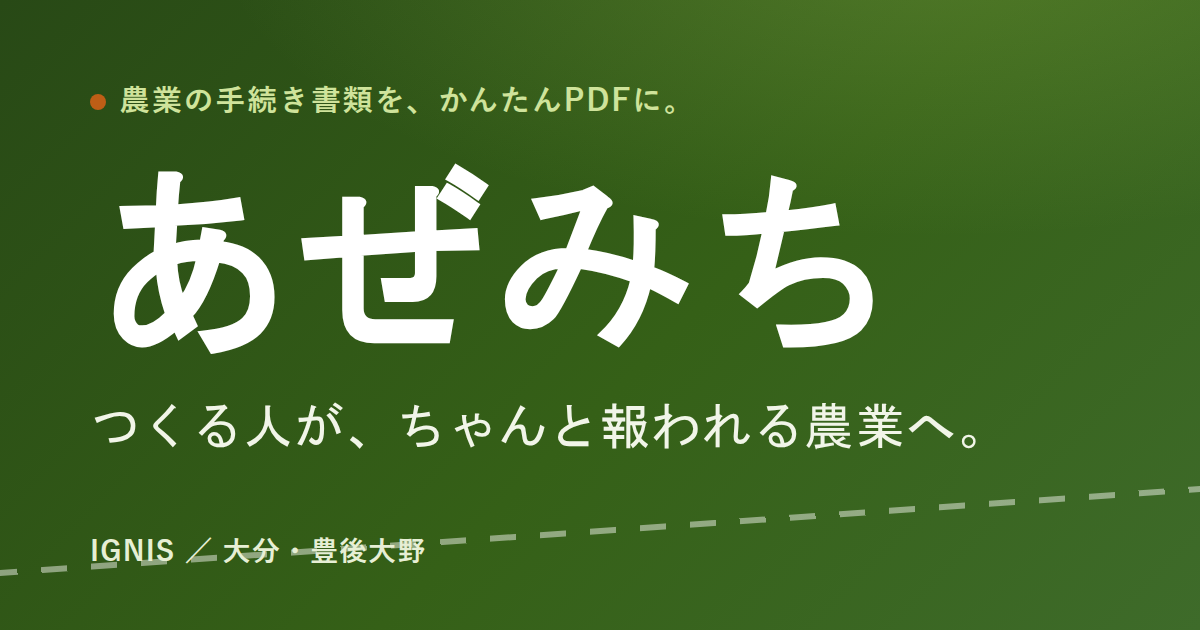
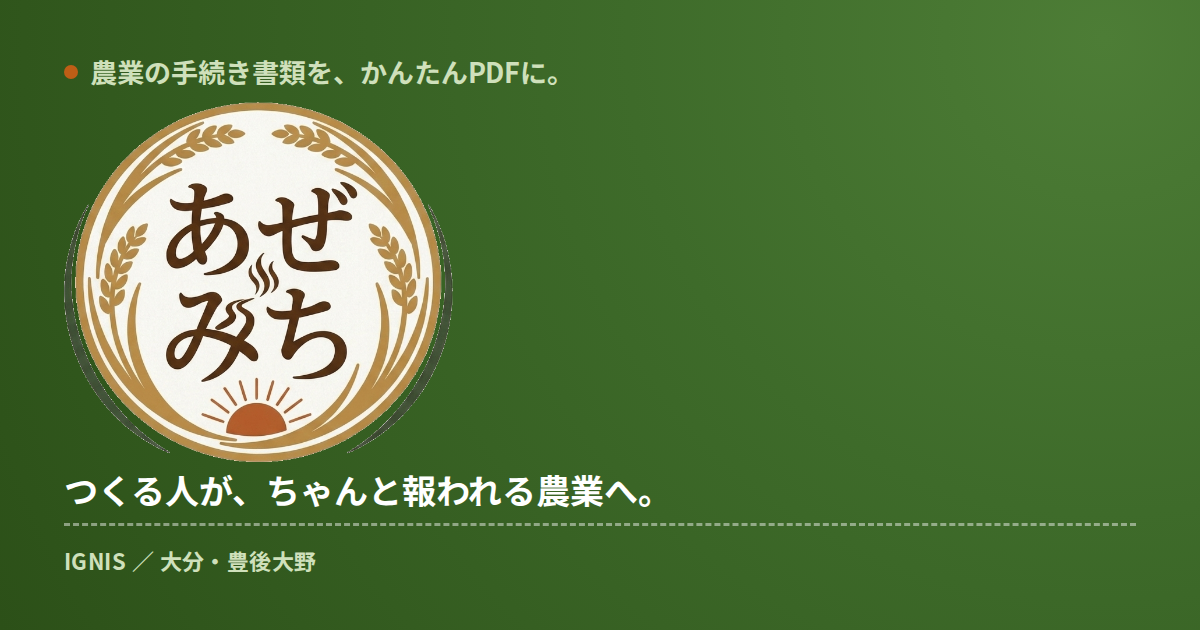
新しいロゴをファビコン・OGP画像・ヘッダー・フッターに反映

diff --git a/src/app/tool/page.tsx b/src/app/tool/page.tsx
@@ -1,5 +1,6 @@
 "use client";
 
+import Image from "next/image";
 import Link from "next/link";
 import { CHOKKURA_NOTIFY_URL } from "../site";
 
@@ -8,6 +9,14 @@ export default function Home() {
     <div className="min-h-screen bg-green-50">
       {/* あぜみち サービス紹介 */}
       <div className="bg-white border-b-2 border-green-100 px-4 py-8 text-center">
+        <Image
+          src="/azemichi-logo.png"
+          alt="あぜみち"
+          width={668}
+          height={618}
+          className="mx-auto mb-2 h-24 w-auto sm:h-28"
+          priority
+        />
         <h2 className="text-4xl font-bold text-green-800 mb-2">あぜみち</h2>
         <p className="text-lg font-bold text-green-700 mb-3">農家の手続きを、もっと簡単に。</p>
         <p className="text-xl font-medium text-gray-700 mb-4">農業の手続き書類を、スマホで簡単に作れます</p>

diff --git a/src/app/components/SiteFooter.tsx b/src/app/components/SiteFooter.tsx
@@ -1,3 +1,4 @@
+import Image from "next/image";
 import Link from "next/link";
 
 // 全ページ共通フッター（ルートの layout.tsx から全ページに表示）。
@@ -7,7 +8,16 @@ export default function SiteFooter() {
     <footer className="site-footer">
       <div className="footer-inner">
         <div className="ftop">
-          <div className="fbrand">あぜみち ／ ちょっくら</div>
+          <div className="fbrand">
+            <Image
+              src="/azemichi-logo.png"
+              alt=""
+              width={668}
+              height={618}
+              className="fbrand-logo"
+            />
+            あぜみち ／ ちょっくら
+          </div>
           <nav className="fnav">
             <Link href="/#omoi">想い</Link>
             <Link href="/tool">あぜみち</Link>

diff --git a/src/app/globals.css b/src/app/globals.css
@@ -582,6 +582,13 @@ body {
   font-family: var(--serif);
   font-size: 1.3rem;
   color: #e7ecdf;
+  display: flex;
+  align-items: center;
+  gap: 10px;
+}
+.site-footer .fbrand-logo {
+  height: 36px;
+  width: auto;
 }
 .site-footer .fnav a {
   /* スマホで押しやすいよう余白でタップ領域を確保（高さ44px以上） */
